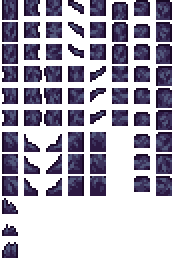
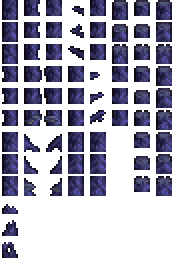
Acid Plant palm tree (unfinished)
-Added a large acid plant that behaves like a palm tree in the Shrouded Mire. Not finished yet because of missing support for multiple saplings for the same grass type as well as other sapling based complications.
-Changed mire foliage sprites, code is broken currently, will revisit when revisiting acid flower or earlier, who knows.
-Added Veilmud and Lunarmoss walls.
-Added some inBiome conditions for later usage in NPC shops and such.

diff --git a/Tiles/Biomes/Mire/BigFlowerSapling.cs b/Tiles/Biomes/Mire/BigFlowerSapling.cs
@@ -1,0 +1,68 @@
+using Microsoft.Xna.Framework;
+using Microsoft.Xna.Framework.Graphics;
+using System;
+using Terraria;
+using Terraria.DataStructures;
+using Terraria.Enums;
+using Terraria.ID;
+using Terraria.ModLoader;
+using Terraria.ObjectData;
+
+namespace MultidimensionMod.Tiles.Biomes.Mire
+{
+    class BigFlowerSapling : ModTile
+    {
+        public override void SetStaticDefaults()
+        {
+            Main.tileFrameImportant[Type] = true;
+            Main.tileNoAttach[Type] = true;
+            Main.tileLavaDeath[Type] = true;
+            TileID.Sets.SwaysInWindBasic[Type] = true;
+            TileID.Sets.CommonSapling[Type] = true;
+            TileID.Sets.TreeSapling[Type] = true;
+            TileObjectData.newTile.Width = 1;
+            TileObjectData.newTile.Height = 2;
+            TileObjectData.newTile.Origin = new Point16(0, 1);
+            TileObjectData.newTile.AnchorBottom = new AnchorData(AnchorType.SolidTile, TileObjectData.newTile.Width, 0);
+            TileObjectData.newTile.UsesCustomCanPlace = true;
+            TileObjectData.newTile.CoordinateHeights = new int[] { 16, 18 };
+            TileObjectData.newTile.CoordinateWidth = 16;
+            TileObjectData.newTile.CoordinatePadding = 2;
+            TileObjectData.newTile.AnchorValidTiles = new int[] { ModContent.TileType<MireGrass>(), ModContent.TileType<Tiles.Biomes.Inferno.InfernoGrass>() };
+            TileObjectData.newTile.StyleHorizontal = true;
+            TileObjectData.newTile.DrawFlipHorizontal = true;
+            TileObjectData.newTile.WaterPlacement = LiquidPlacement.NotAllowed;
+            TileObjectData.newTile.LavaDeath = true;
+            TileObjectData.newTile.RandomStyleRange = 3;
+            TileObjectData.addTile(Type);
+            AddMapEntry(new Color(200, 200, 200));
+            AdjTiles = new int[] { TileID.Saplings };
+        }
+
+        public override void NumDust(int i, int j, bool fail, ref int num)
+        {
+            num = fail ? 1 : 3;
+        }
+
+        public override void RandomUpdate(int i, int j)
+        {
+            if (WorldGen.genRand.NextBool(2))
+            {
+                bool isPlayerNear = WorldGen.PlayerLOS(i, j);
+                bool success = WorldGen.GrowPalmTree(i, j);
+                if (success && isPlayerNear)
+                {
+                    WorldGen.TreeGrowFXCheck(i, j);
+                }
+            }
+        }
+
+        public override void SetSpriteEffects(int i, int j, ref SpriteEffects spriteEffects)
+        {
+            if (i % 2 == 1)
+            {
+                spriteEffects = SpriteEffects.FlipHorizontally;
+            }
+        }
+    }
+}

diff --git a/Tiles/Biomes/Mire/BigFlower.cs b/Tiles/Biomes/Mire/BigFlower.cs
@@ -6,7 +6,7 @@ using Terraria.ModLoader;
 
 namespace MultidimensionMod.Tiles.Biomes.Mire
 {
-    public class BogPalmTree : ModPalmTree
+    public class BigFlower : ModPalmTree
     {
         private Asset<Texture2D> texture;
         private Asset<Texture2D> oasisTopsTexture;
@@ -23,10 +23,10 @@ namespace MultidimensionMod.Tiles.Biomes.Mire
 
         public override void SetStaticDefaults()
         {
-            GrowsOnTileId = new int[1] { ModContent.TileType<DepthsandPlaced>() };
-            texture = ModContent.Request<Texture2D>("MultidimensionMod/Tiles/Biomes/Mire/BogPalmTree");
-            topsTexture = ModContent.Request<Texture2D>("MultidimensionMod/Tiles/Biomes/Mire/BogPalmTreetops");
-            oasisTopsTexture = ModContent.Request<Texture2D>("MultidimensionMod/Tiles/Biomes/Mire/BogPalmTreeTopsOasis");
+            GrowsOnTileId = new int[1] { ModContent.TileType<MireGrass>() };
+            texture = ModContent.Request<Texture2D>("MultidimensionMod/Tiles/Biomes/Mire/BigFlower");
+            topsTexture = ModContent.Request<Texture2D>("MultidimensionMod/Tiles/Biomes/Mire/BigFlowerTops");
+            oasisTopsTexture = ModContent.Request<Texture2D>("MultidimensionMod/Tiles/Biomes/Mire/BigFlowerTopsOasis");
         }
 
         public override Asset<Texture2D> GetTexture() => texture;
@@ -34,12 +34,12 @@ namespace MultidimensionMod.Tiles.Biomes.Mire
         public override int SaplingGrowthType(ref int style)
         {
             style = 0;
-            return ModContent.TileType<BogPalmSapling>();
+            return ModContent.TileType<BigFlowerSapling>();
         }
 
         public override int DropWood()
         {
-            return ModContent.ItemType<Items.Placeables.Biomes.Mire.Bogwood>();
+            return ModContent.ItemType<Items.Placeables.Biomes.Mire.MireSeeds>();
         }
 
         public override Asset<Texture2D> GetOasisTopTextures() => oasisTopsTexture;

diff --git a/Items/Placeables/Biomes/Mire/BigFlowerSaplingItem.cs b/Items/Placeables/Biomes/Mire/BigFlowerSaplingItem.cs
@@ -1,0 +1,36 @@
+using MultidimensionMod.Tiles;
+using Microsoft.Xna.Framework;
+using Microsoft.Xna.Framework.Graphics;
+using Terraria;
+using Terraria.ID;
+using Terraria.ModLoader;
+using Terraria.GameContent.Creative;
+using System;
+using MultidimensionMod.Tiles.Biomes.Mire;
+
+namespace MultidimensionMod.Items.Placeables.Biomes.Mire
+{
+    public class BigFlowerSaplingItem : ModItem
+    {
+        public override void SetStaticDefaults()
+        {
+            CreativeItemSacrificesCatalog.Instance.SacrificeCountNeededByItemId[Type] = 25;
+        }
+
+        public override void SetDefaults()
+        {
+            Item.width = 14;
+            Item.height = 12;
+            Item.maxStack = 9999;
+            Item.useTurn = true;
+            Item.autoReuse = true;
+            Item.useAnimation = 15;
+            Item.useTime = 10;
+            Item.useStyle = ItemUseStyleID.Swing;
+            Item.consumable = true;
+            Item.rare = ItemRarityID.White;
+            Item.value = Item.sellPrice(0, 0, 66, 0);
+            Item.createTile = ModContent.TileType<BigFlowerSapling>();
+        }
+    }
+}

diff --git a/Walls/MireGrassWallPlaced.cs b/Walls/MireGrassWallPlaced.cs
@@ -1,0 +1,44 @@
+using Microsoft.Xna.Framework;
+using System;
+using Terraria;
+using Terraria.ModLoader;
+
+namespace MultidimensionMod.Walls
+{
+    public class MireGrassWallPlaced : ModWall
+    {
+        public override void SetStaticDefaults()
+        {
+            DustType = ModContent.DustType<Dusts.AbyssiumDust>();
+            AddMapEntry(new Color(32, 11, 73));
+        }
+
+        public override void NumDust(int i, int j, bool fail, ref int num)
+        {
+            num = fail ? 1 : 3;
+        }
+
+        public override void AnimateWall(ref byte frame, ref byte frameCounter)
+        {
+            if (Main.dayTime)
+            {
+                frame = 0;
+            }
+            if (!Main.dayTime)
+            {
+                frame = 1;
+            }
+            
+        }
+
+        public override void ModifyLight(int i, int j, ref float r, ref float g, ref float b)
+        {
+            if (!Main.dayTime)
+            {
+                r = 0;
+                g = 0.22f;
+                b = 0.43f;
+            }
+        }
+    }
+}

diff --git a/Common/ALConditions.cs b/Common/ALConditions.cs
@@ -1,0 +1,13 @@
+using MultidimensionMod.Biomes;
+using Terraria;
+
+namespace MutidimensionMod.Common
+{
+    public static class ALConditions
+    {
+        public static Condition InScarletMyceliumForest = new Condition("Mods.MultidimensionMod.OtherConditions.InScarletForest", () => Main.LocalPlayer.InModBiome<ShroomForest>());
+        public static Condition InShroudedMire = new Condition("Mods.MultidimensionMod.OtherConditions.InShroudedMire", () => Main.LocalPlayer.InModBiome<TheShroudedMire>() || Main.LocalPlayer.InModBiome<TheLakeDepths>());
+        public static Condition InDragonsHoard = new Condition("Mods.MultidimensionMod.OtherConditions.InDragonsHoard", () => Main.LocalPlayer.InModBiome<TheDragonHoard>() || Main.LocalPlayer.InModBiome<TheDragonBurrow>());
+        //public static Condition InHarmonyCaverns = new Condition("Mods.MultidimensionMod.OtherConditions.InHarmonyCaverns", () => Main.LocalPlayer.InModBiome<TheHarmonyCaverns>());
+    }
+}

diff --git a/Items/Placeables/Biomes/Mire/VeilmudWall.cs b/Items/Placeables/Biomes/Mire/VeilmudWall.cs
@@ -1,0 +1,30 @@
+using Terraria.ID;
+using Terraria.ModLoader;
+
+namespace MultidimensionMod.Items.Placeables.Biomes.Mire
+{
+    public class VeilmudWall : ModItem
+    {
+        public override void SetDefaults()
+        {
+            Item.width = 16;
+            Item.height = 16;
+            Item.maxStack = 9999;
+            Item.useTurn = true;
+            Item.autoReuse = true;
+            Item.useAnimation = 15;
+            Item.useTime = 10;
+            Item.useStyle = 1;
+            Item.consumable = true;
+            Item.createWall = ModContent.WallType<Walls.VeilmudWallPlaced>();
+        }
+
+        public override void AddRecipes()
+        {
+            CreateRecipe(4)
+            .AddIngredient(ModContent.ItemType<Darkmud>())
+            .AddTile(TileID.WorkBenches)
+            .Register();
+        }
+    }
+}

diff --git a/Common/Globals/NPCs/MDGlobalTownNPC.cs b/Common/Globals/NPCs/MDGlobalTownNPC.cs
@@ -14,6 +14,8 @@ using Terraria.Localization;
 using Terraria.ModLoader.IO;
 using MultidimensionMod.Common.Systems;
 using MultidimensionMod.Items;
+using MutidimensionMod.Common;
+using MultidimensionMod.Items.Placeables.Biomes.Mire;
 
 namespace MultidimensionMod
 {
@@ -48,6 +50,11 @@ namespace MultidimensionMod
             {
                 if (shop.NpcType == NPCID.Dryad)
                 {
+                    shop.Add(new Item(ModContent.ItemType<MireGrassWall>())
+                    {
+                        shopCustomPrice = Item.buyPrice(0, 0, 0, 10)
+                    }, ALConditions.InShroudedMire);
+
                     shop.Add(new Item(ItemID.SlimeCrown)
                     {
                         shopCustomPrice = Item.buyPrice(0, 1, 50)

diff --git a/Items/Placeables/Biomes/Mire/MireGrassWall.cs b/Items/Placeables/Biomes/Mire/MireGrassWall.cs
@@ -1,0 +1,22 @@
+using Terraria.ID;
+using Terraria.ModLoader;
+
+namespace MultidimensionMod.Items.Placeables.Biomes.Mire
+{
+    public class MireGrassWall : ModItem
+    {
+        public override void SetDefaults()
+        {
+            Item.width = 16;
+            Item.height = 16;
+            Item.maxStack = 9999;
+            Item.useTurn = true;
+            Item.autoReuse = true;
+            Item.useAnimation = 15;
+            Item.useTime = 10;
+            Item.useStyle = 1;
+            Item.consumable = true;
+            Item.createWall = ModContent.WallType<Walls.MireGrassWallPlaced>();
+        }
+    }
+}

diff --git a/Tiles/Biomes/Mire/MireSurfaceFoliage.cs b/Tiles/Biomes/Mire/MireSurfaceFoliage.cs
@@ -29,7 +29,7 @@ namespace MultidimensionMod.Tiles.Biomes.Mire
             TileObjectData.newTile.UsesCustomCanPlace = true;
             TileObjectData.newTile.AnchorValidTiles = new int[] { ModContent.TileType<MireGrass>() };
             TileObjectData.newTile.StyleHorizontal = true;
-            TileObjectData.newTile.RandomStyleRange = 23;
+            TileObjectData.newTile.RandomStyleRange = 14;
             TileObjectData.newTile.CoordinateWidth = 16;
             TileObjectData.newTile.CoordinatePadding = 2;
             TileObjectData.newTile.Origin = new Point16(0, 1);

diff --git a/Walls/VeilmudWallPlaced.cs b/Walls/VeilmudWallPlaced.cs
@@ -1,0 +1,21 @@
+using Microsoft.Xna.Framework;
+using System;
+using Terraria;
+using Terraria.ModLoader;
+
+namespace MultidimensionMod.Walls
+{
+    public class VeilmudWallPlaced : ModWall
+    {
+        public override void SetStaticDefaults()
+        {
+            DustType = ModContent.DustType<Dusts.AbyssiumDust>();
+            AddMapEntry(new Color(17, 9, 40));
+        }
+
+        public override void NumDust(int i, int j, bool fail, ref int num)
+        {
+            num = fail ? 1 : 3;
+        }
+    }
+}

diff --git a/NPCs/Gaster.cs b/NPCs/Gaster.cs
@@ -20,6 +20,10 @@ namespace MultidimensionMod.NPCs
         public override void SetStaticDefaults()
         {
             NPCID.Sets.CountsAsCritter[Type] = true;
+            NPCID.Sets.DontDoHardmodeScaling[Type] = true;
+            NPCID.Sets.CantTakeLunchMoney[Type] = true;
+            NPCID.Sets.NPCBestiaryDrawModifiers value = new(0) { Hide = true };
+            NPCID.Sets.NPCBestiaryDrawOffset.Add(Type, value);
         }
 
         public override void SetDefaults()
